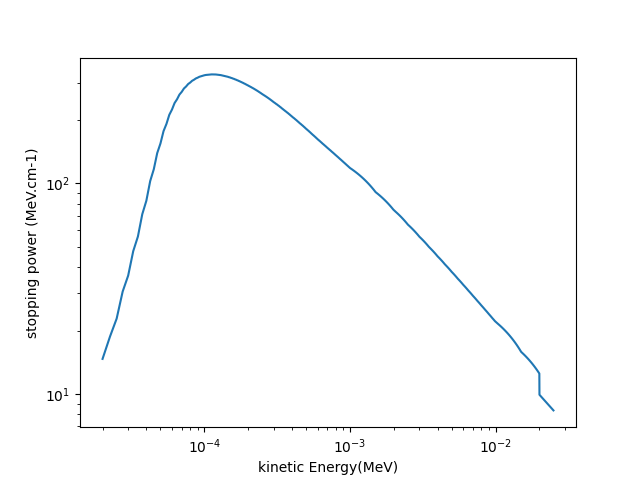
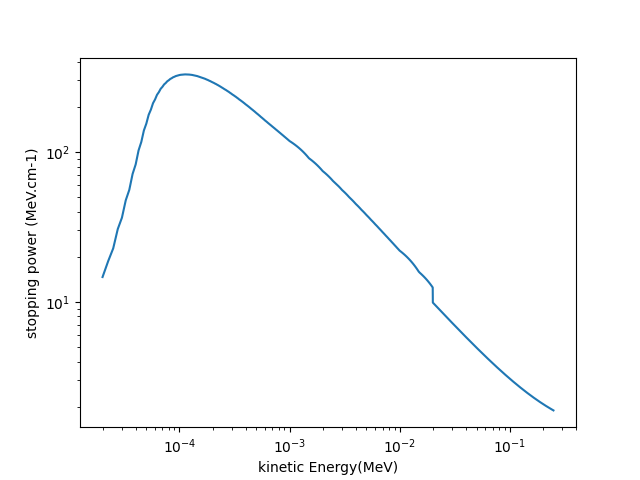
test

diff --git a/MCTDCRcode/TDCR_model_lib.py b/MCTDCRcode/TDCR_model_lib.py
@@ -248,7 +248,7 @@ def stoppingpower(e,rho,Z,A,emin=0,file=data_TanXia_f):
     return dEdx    
 
 dEdx = []
-e = np.linspace(20,2.5e4,10000)
+e = np.linspace(20,2.5e5,100000)
 for i in e:
     dEdx.append(stoppingpower(i,rho=0.866,Z=5.199,A=11.04))
 
@@ -320,7 +320,7 @@ for i in range(800000):
     e_2 = e2[i]
     spa.append(stoppingpowerA(e_2,doc,rho=0.866))
 '''
-e1 = np.linspace(2e-5,2.5e-2,10000)
+e1 = np.linspace(2e-5,2.5e-1,100000)
 plt.plot(e1,dEdx,label='stoppingpowerE')
 #plt.plot(e2,spa,label='stoppingpowerA')
 plt.xscale('log')
